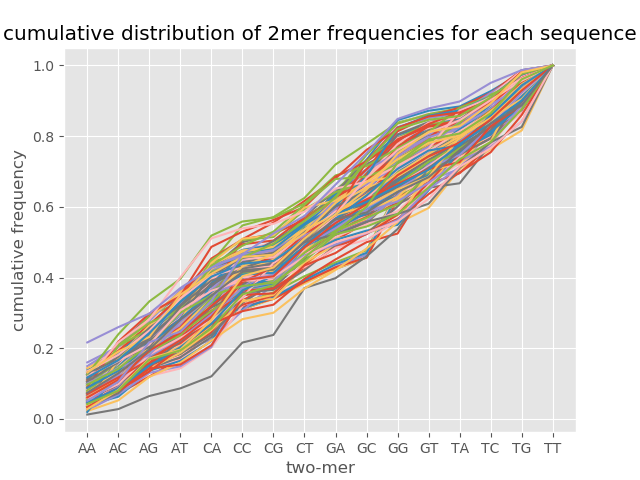
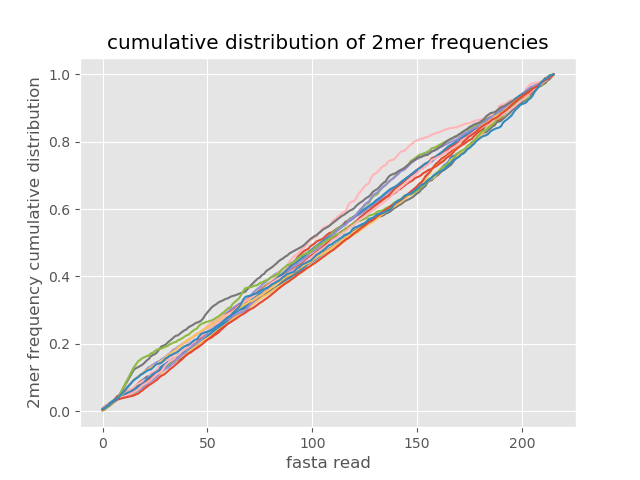
fixes based on feedback
fixed :
q1.py & cdf plot
README explanation of insert size distribution and somatic alterations

diff --git a/q1.py b/q1.py
@@ -8,13 +8,13 @@ def get_mid_5_mer_and_rev_compl(sequence):
     if seq_len <= 5:
         return sequence
     elif seq_len % 2 != 0:
-        midpoint_of_seq = int((seq_len - 1)/2)
-        mid_sequence = sequence[midpoint_of_seq-2:midpoint_of_seq+3]
+        midpoint_of_seq = int((seq_len - 1) / 2)
+        mid_sequence = sequence[midpoint_of_seq - 2:midpoint_of_seq + 3]
         return mid_sequence, get_reverse_complement(mid_sequence)
     else:  # never happens for this input since all sequence lengths are odd
-        midpoint_of_seq = seq_len/2 - 1  # lower mid point considered if even
+        midpoint_of_seq = seq_len / 2 - 1  # lower mid point considered if even
         lower_mid_sequence = sequence[midpoint_of_seq - 2:midpoint_of_seq + 3]
-        upper_mid_sequence = sequence[midpoint_of_seq-1:midpoint_of_seq+4]
+        upper_mid_sequence = sequence[midpoint_of_seq - 1:midpoint_of_seq + 4]
         # return comma separated 2 kmers for even length sequence
         return '{0},{1}'.format(lower_mid_sequence, upper_mid_sequence), '{0},{1}'.format(
             get_reverse_complement(lower_mid_sequence), get_reverse_complement(upper_mid_sequence))
@@ -28,7 +28,7 @@ def get_reverse_complement(sequence):
         if base not in complement_dict:  # For Ex: there are some 'Y' bases in the fasta
             # in this dataset it doesnt appear to happen for the mid 5 mer so ignore for now;
             # would need special handling for reverse complement of each non A,G,T,C entry
-            print("this is a weird base {} in sequence {}".format(base,sequence))
+            print("this is a weird base {} in sequence {}".format(base, sequence))
             sys.exit(1)
         else:
             complement_seq.append(complement_dict[base])
@@ -45,29 +45,29 @@ def get_all_sorted_two_mers():
     return two_mers
 
 
-def get_vector_c(sequence, line_number):
-    two_mer_list = get_all_sorted_two_mers()
+def get_vector_c(sequence, line_number, two_mer_list):
     vector_c = [0] * len(two_mer_list)
     for count in range(len(sequence) - 1):
         # print(count)
-        if sequence[count:count+2] not in two_mer_list:
-            print("ignored {} in vector_C count for line {} at position {} of fasta".format(sequence[count:count+2],
+        if sequence[count:count + 2] not in two_mer_list:
+            print("ignored {} in vector_C count for line {} at position {} of fasta".format(sequence[count:count + 2],
                                                                                             line_number, count))
         else:
-            vector_c_idx = two_mer_list.index(sequence[count:count+2])
+            vector_c_idx = two_mer_list.index(sequence[count:count + 2])
             vector_c[vector_c_idx] = vector_c[vector_c_idx] + 1
     return '\t'.join([str(mer_count) for mer_count in vector_c])
 
 
 def main():
-
     # QUESTION 1
 
     count = 0
     processed_read = {}
     read_lengths = []
     vector_c = []
-    with open("Sequencing_Analysis_Assignment.fasta","r") as fasta, open("output_1a","w") as f_out:
+    two_mer_list = get_all_sorted_two_mers()
+
+    with open("Sequencing_Analysis_Assignment.fasta", "r") as fasta, open("output_1a", "w") as f_out:
         for line in fasta:
             count = count + 1
             line = line.strip()
@@ -77,10 +77,10 @@ def main():
             else:  # base sequence
                 read_lengths.append(len(line))
                 processed_read['mid_5mer'], processed_read['reverse_comp_mid_5mer'] = get_mid_5_mer_and_rev_compl(line)
-                vector_c.append(get_vector_c(line, count))
+                vector_c.append(get_vector_c(line, count, two_mer_list))
                 f_out.write("{0}\t{1}\t{2}\t{3}\t{4}\n".format(processed_read['read_id'],
-                            read_lengths[-1], processed_read['mid_5mer'],
-                            processed_read['reverse_comp_mid_5mer'], vector_c[-1]))
+                                                               read_lengths[-1], processed_read['mid_5mer'],
+                                                               processed_read['reverse_comp_mid_5mer'], vector_c[-1]))
 
     # PLOTS
     num_bins = int(math.sqrt(len(read_lengths))) + 1
@@ -90,38 +90,38 @@ def main():
     plt.xlabel("read length")
     plt.ylabel("number of reads")
     plt.title("histogram of read lengths")
-    # plt.draw()
     fig1.savefig("read_length_histogram.png")
 
-    # plot of cdf
+    # compute and plot cdf
     fig2 = plt.figure("cumulative distribution of 2mer frequencies")
-    ax = fig2.add_axes([0.1, 0.1, 0.8, 0.8])
-    plt.xlabel("two-mer")
-    xtick_labels = get_all_sorted_two_mers()
-    ax.set_xticks(range(len(xtick_labels)))
-    ax.set_xticklabels(xtick_labels)
-    plt.ylabel("cumulative frequency")
-    plt.title("cumulative distribution of 2mer frequencies for each sequence")
+    plt.xlabel("fasta read")
+    plt.ylabel("2mer frequency cumulative distribution")
+    plt.title("cumulative distribution of 2mer frequencies")
 
+    # define seq_2mer_freq_f as a list containing 16 lists - one list for each 2mer
+    # Each of the 16 lists contains the corresponding 2mer frequency for each of the fasta reads.
+    seq_2mer_freq_f = [[] for cnt in range(len(two_mer_list))]
+    twomer_cum_freq = [0] * len(two_mer_list)  # stores cumulative freq for each two-mer
     for genomic_sig_c_str in vector_c:
         genomic_sig_c_list = genomic_sig_c_str.split('\t')
         pseudo_counts_p = [float(two_mer_cnt) + 1 for two_mer_cnt in genomic_sig_c_list]
         sum_l = sum(pseudo_counts_p)
-        seq_2mer_freq_f = [px/sum_l for px in pseudo_counts_p]
-        sequence_cdf = [seq_2mer_freq_f[0]]
-        for idx in range(1, len(seq_2mer_freq_f)):
-            sequence_cdf.append(seq_2mer_freq_f[idx] + sequence_cdf[idx-1])
-        # print(seq_2mer_freq_f, sequence_cdf)
-        plt.plot(sequence_cdf)
+        for twomer_idx in range(len(two_mer_list)):
+            freq_val = pseudo_counts_p[twomer_idx] / sum_l
+            twomer_cum_freq[twomer_idx] = twomer_cum_freq[twomer_idx] + freq_val
+            seq_2mer_freq_f[twomer_idx].append(freq_val)
 
-    # plt.draw()
+    # get cumulative distribution
+    twomer_cdf = []
+    for twomer_idx in range(len(two_mer_list)):
+        twomer_cdf.append([seq_2mer_freq_f[twomer_idx][0] / twomer_cum_freq[twomer_idx]])
+        for seq_idx in range(1, len(seq_2mer_freq_f[twomer_idx])):
+            twomer_cdf[twomer_idx].append(twomer_cdf[twomer_idx][seq_idx - 1] +
+                                          seq_2mer_freq_f[twomer_idx][seq_idx] / twomer_cum_freq[twomer_idx])
+        plt.plot(twomer_cdf[twomer_idx])
+
     fig2.savefig("cumulative_distribution_of_2mer_frequencies.png")
 
 
 if __name__ == '__main__':
     main()
-
-
-
-
-

diff --git a/README.md b/README.md
@@ -1,2 +1,82 @@
-# NGS_assignment
- 
+# NGS assignment
+
+instructions to run
+
+make sure gatk, samtools are installed and paths are correct
+
+Run:
+
+python q1.py
+
+python q2.py
+
+solutions to assignment:
+
+Files for part 1:
+
+q1.py - code for question 1
+
+read_length_histogram.png - histogram for q1
+
+cumulative_distribution_of_2mer_frequencies.png - distribution for q2
+
+terminal_output_for_q1.txt - terminal output for q1
+
+Part 2
+
+Files for part 2:
+
+q2.py - python code for part 2
+
+INPUT: downloaded bam and bai file
+
+HG00096.chrom20.ILLUMINA.bwa.GBR.low_coverage.20120522.bam //excluded due to size
+
+HG00096.chrom20.ILLUMINA.bwa.GBR.low_coverage.20120522.bam.bai
+
+OUTPUT:
+
+HG00096.chrom20.ILLUMINA.bwa.GBR.low_coverage.20120522.sorted.bam - sorted bam //excluded due to size
+
+insert_size_distribution.pdf - distribution of insert sizes
+
+insert_size_information.txt - statistics + histogram bin values of insert sizes
+
+terminal_output_for_q2.txt - terminal output for q2
+
+
+STEPS:
+1) ftp file download
+2) Header view: samtools view -H <bamfile>, Fileview: samtools view <bamfile> | less - just to look inside the file
+3) sort: samtools sort ( in this case it appears its already sorted )
+4) get summary stats - samtools flagstat - for my understanding, to look at duplicate, unmapped reads
+5) Picard CollectInsertMetrics to get and plot insert size distribution for paired end mapped reads - unpaired and duplicate reads are excluded
+
+ASSUMPTIONS - documented in code as well
+    
+    - ASSUMPTION 1: fragment size approximately equals insert size
+    Here I ignore adapter length ( usually trimmed ) since actually fragment size = insert size + length of adapters at both ends
+    
+    - ASSUMPTION 2: insert size approximately equals TLEN ( field 9 of sam ) which I believe Picard CollectInsertMetrics uses for its plots and stats
+    This assumption would be violated in case of RNAseq data due to splicing and hence introns not being sequenced but that is not relevant here
+    
+    - ASSUMPTION 3: In some places it seems "insert size" is used interchangeably with "inner mate size" but not here.
+    I assume inner mate size to be TLEN - len(R1) - len(R2) and do not use it anywhere.
+
+NOTE:
+
+CollectInsertMetrics has some filters which are implicitly set and I chose not to change:
+1) duplicates are excluded, as they should be
+2) extreme insert sizes ( 10 deviations away from median ) are excluded 
+3) 1431742 read pairs out of 2931500 reads meet the criteria here
+
+Insert size and somatic alterations:
+
+Abnormal insert sizes can be a sign of somatic structural variation in those regions.
+For a typical standardized target size, the insert size distribution should be unimodal with mode around the target size.
+tails in the insert size distribution could be due to alignment errors / artifacts. However, multimodal insert size distributions
+are indicative of somatic structural variation ( eg deletion, duplication, insertion, inversion, translocation)
+
+
+
+
